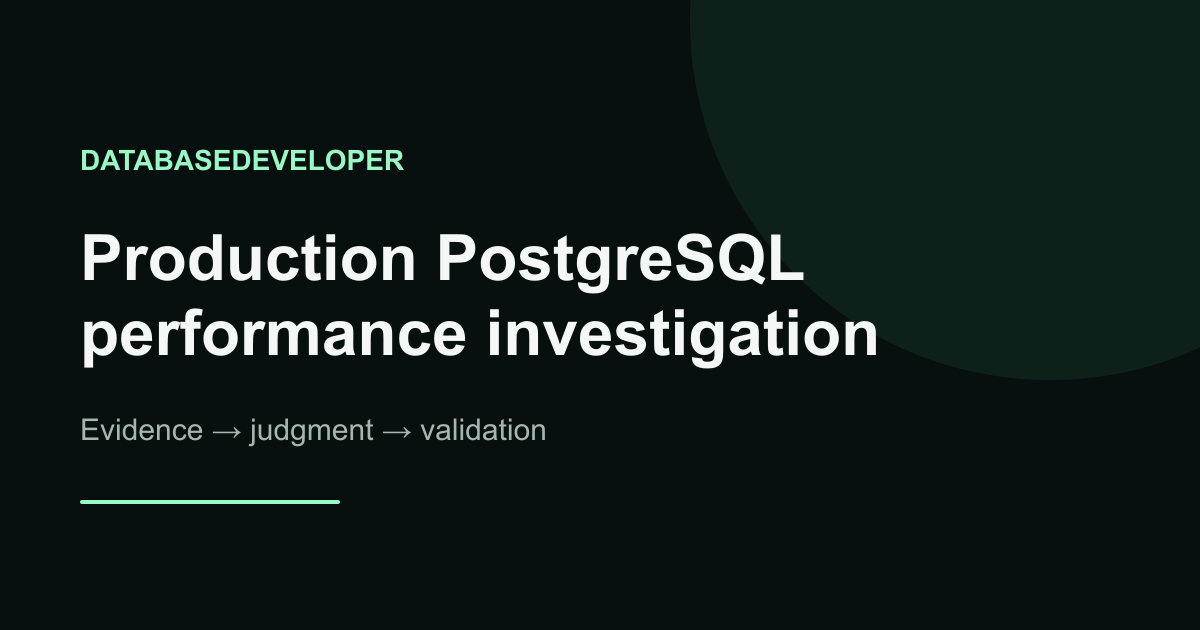
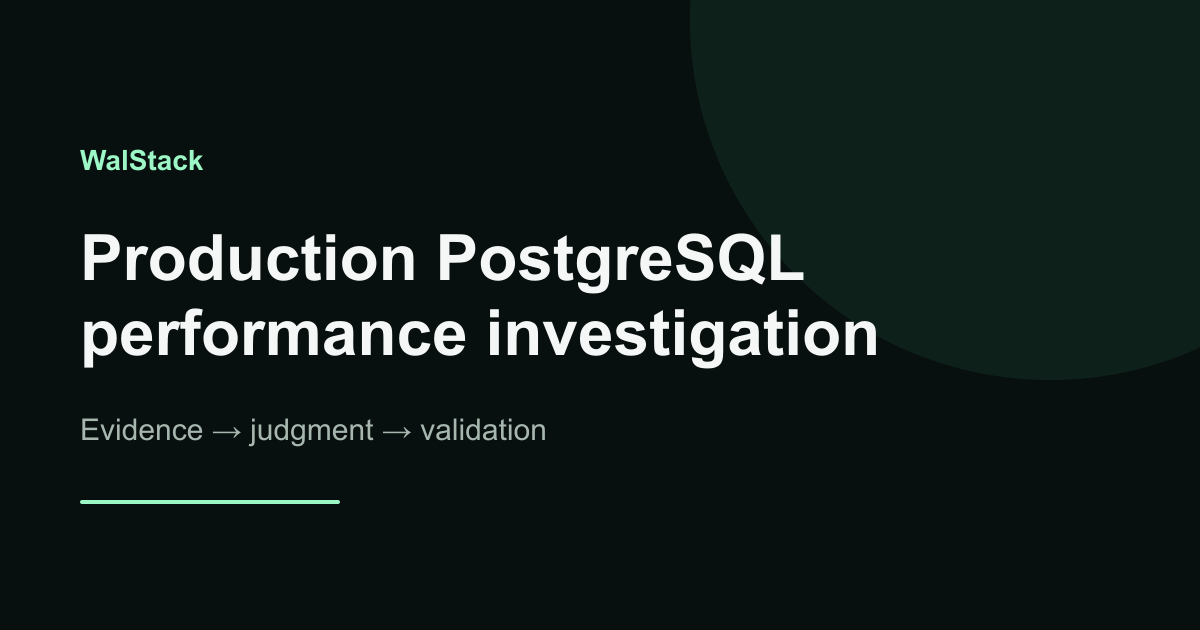
Rebrand consulting site to WalStack

Changed region(s): [[0.0617, 0.2413, 0.3392, 0.2714]]

diff --git a/src/config/site.ts b/src/config/site.ts
@@ -1,10 +1,10 @@
 export const site = {
-  brand: 'DatabaseDeveloper',
-  legalName: 'DatabaseDeveloper',
-  url: 'https://databasedeveloper.dev',
+  brand: 'WalStack',
+  legalName: 'WalStack',
+  url: 'https://walstack.io',
   description:
-    'Evidence-first PostgreSQL performance investigations for SaaS engineering teams, with specialist capability across SQL Server, pgvector, Snowflake and OLAP workloads.',
-  email: 'kiran@databasedeveloper.dev',
+    'WalStack provides evidence-first PostgreSQL performance investigations for SaaS engineering teams, with specialist capability across SQL Server, pgvector, Snowflake and OLAP workloads.',
+  email: 'hello@walstack.io',
   personName: 'Kiran Sabne',
   linkedinUrl: 'https://www.linkedin.com/in/kiransabne/',
   githubUrl: 'https://github.com/kiransabne04',
@@ -13,7 +13,7 @@ export const site = {
   sqlServerBlogUrl: 'https://mssqlserver.dev',
   // GA4 measurement ID (public). Loads only on the production hostnames below, after consent.
   gaId: import.meta.env.PUBLIC_GA_ID || 'G-4YXPCMHXYD',
-  analyticsHosts: ['databasedeveloper.dev', 'www.databasedeveloper.dev'],
+  analyticsHosts: ['walstack.io', 'www.walstack.io'],
   // Public scheduling page (Cal.com, Calendly, Google Calendar booking page…).
   // Empty hides every "book a call" link, so no page points at a dead booking URL.
   bookingUrl: import.meta.env.PUBLIC_BOOKING_URL || 'https://cal.com/kiransabne13/triage-call',

diff --git a/src/pages/rss.xml.ts b/src/pages/rss.xml.ts
@@ -6,7 +6,7 @@ export const GET: APIRoute = () => {
   const feed = rssFeed({
     siteUrl: site.url,
     feedPath: '/rss.xml',
-    title: 'DatabaseDeveloper insights',
+    title: 'WalStack insights',
     link: `${site.url}/insights`,
     description: site.description,
     author: site.personName,

diff --git a/docs/LAUNCH_CHECKLIST.md b/docs/LAUNCH_CHECKLIST.md
@@ -1,6 +1,7 @@
 # Launch checklist
 
-- [x] Use the verified `kiran@databasedeveloper.dev` in `src/config/site.ts`
+- [x] Set `hello@walstack.io` in `src/config/site.ts`
+- [ ] Verify that `hello@walstack.io` receives mail and the existing Formspree endpoint routes to the intended inbox
 - [ ] Send a fresh test inquiry to confirm delivery before launch
 - [ ] Confirm the advertised 3-business-day report turnaround is operationally sustainable
 - [ ] Confirm how many of the first three founding-price places remain and update `src/config/site.ts` when they are filled
@@ -16,8 +17,8 @@
 - [x] 20-minute triage event live at https://cal.com/kiransabne13/triage-call (default in `src/config/site.ts`; `PUBLIC_BOOKING_URL` overrides it)
 - [ ] In GA4, mark `booking_click` as a key event
 - [x] Analytics provider chosen: Google Analytics 4 (free). Loads only after consent via the built-in banner; ad features off; privacy page updated
-- [ ] Create a GA4 property and web data stream for `https://databasedeveloper.dev`; set data retention to 14 months; leave Google signals off
-- [x] GA4 measurement ID `G-4YXPCMHXYD` set in `src/config/site.ts`; it loads only on databasedeveloper.dev and www, after consent (`PUBLIC_GA_ID` overrides it)
+- [ ] Create a GA4 property and web data stream for `https://walstack.io`; set data retention to 14 months; leave Google signals off
+- [ ] Confirm the existing GA4 measurement ID `G-4YXPCMHXYD` is the intended stream for WalStack; `src/config/site.ts` loads it only on walstack.io and www, after consent (`PUBLIC_GA_ID` overrides it)
 - [ ] In GA4, mark `contact_submit`, `contact_draft_open` and `email_click` as key events; `page_not_found` lists broken old URLs after the domain switch
 - [x] Verify `robots.txt` and sitemap generation locally
 - [x] Verify canonical URLs locally
@@ -26,6 +27,7 @@
 - [x] Run `npm run audit:content` against the built archive pages and redirect configuration
 - [x] Retain the old `/rss.xml` feed path
 - [ ] Test all old URLs and redirects on the deployment preview before switching DNS
+- [ ] Configure permanent, path-preserving redirects from the former site hostname to `https://walstack.io` at the hosting or domain layer
 - [ ] Export both Hashnode publications as JSON; migrate and verify the 15 `kiransabne.dev` posts separately before deleting the account
 - [ ] Compare Search Console's indexed URL report with the sitemap inventory for any additional old paths
 - [ ] Add Search Console as a Domain property (DNS TXT record at the registrar), submit `/sitemap-index.xml`, and link it to GA4

diff --git a/docs/MIGRATION_FROM_HASHNODE.md b/docs/MIGRATION_FROM_HASHNODE.md
@@ -1,6 +1,6 @@
 # Hashnode migration inventory
 
-Checked against the live `databasedeveloper.dev` Hashnode publication on 13 October 2026. It listed eight posts. The new site retains seven original paths. Each page uses the original Hashnode text (extracted 14 October 2026, stored in `src/originals/`) with technical errors corrected in place, plus a production-notes section and permanently redirects the short interview pointer to its full article on `kiransabne.dev`.
+Checked against the former Hashnode publication on 13 October 2026, before the WalStack rebrand. It listed eight posts. The new site retains seven original paths. Each page uses the original Hashnode text (extracted 14 October 2026, stored in `src/originals/`) with technical errors corrected in place, plus a production-notes section and permanently redirects the short interview pointer to its full article on `kiransabne.dev`.
 
 The public Hashnode sitemap was checked as well. It contained those eight posts plus `/archive` and `/recommendations`; both listing routes redirect to `/insights`. The old `/rss.xml` feed path is retained with a new feed, and `/sitemap.xml` redirects to the new `/sitemap-index.xml`.
 
@@ -28,4 +28,4 @@ Run `npm run build` and `npm run audit:content` before a preview deploy. The aud
 3. Check that revised pages have self-canonicals, appear in the sitemap, and link to related service or problem pages.
 4. After the switch, monitor 404s, indexing, traffic and backlinks in Search Console. Do not redirect unrelated old URLs to the homepage.
 
-The live `kiransabne.dev` Hashnode publication listed 15 posts on 13 October 2026. Export and migrate that publication separately before deleting a shared Hashnode account; these eight DatabaseDeveloper URLs do not cover it. Hashnode says account deletion removes its content from public view. Its dashboard offers a JSON article export.
+The live `kiransabne.dev` Hashnode publication listed 15 posts on 13 October 2026. Export and migrate that publication separately before deleting a shared Hashnode account; these eight WalStack article paths do not cover it. Hashnode says account deletion removes its content from public view. Its dashboard offers a JSON article export.

diff --git a/docs/CONTENT_SEARCH_PLAN.md b/docs/CONTENT_SEARCH_PLAN.md
@@ -19,7 +19,7 @@ Updated 13 October 2026. This is a search-intent map, not a claim of keyword vol
 - Preserve the seven original article URLs and the permanent redirect for the SQL interview pointer to its full article on `kiransabne.dev`. Each page keeps the original text with errors corrected in place, adds production notes, and keeps its original publication date and a truthful revision date.
 - Give each article one primary question in its title and opening. Explain the decisive evidence, operational trade-off and validation step. Use SQL or code where it helps a reader act; label examples and avoid invented production results.
 - Link informational articles to a relevant problem or service page when a real production investigation could help. The shared article CTA is secondary to the technical answer.
-- Keep the DatabaseDeveloper archive self-contained. The BRIN and semantic-search pointer posts now have complete local guides; the interview pointer redirects to its full article on `kiransabne.dev`, which is not duplicated here. Inventory any separate `kiransabne.dev` publication before deleting a shared Hashnode account.
+- Keep the WalStack archive self-contained. The BRIN and semantic-search pointer posts now have complete local guides; the interview pointer redirects to its full article on `kiransabne.dev`, which is not duplicated here. Inventory any separate `kiransabne.dev` publication before deleting a shared Hashnode account.
 - SQL Server tutorials (syntax, features, how-to) publish on `mssqlserver.dev`; SQL Server production-performance labs and problem guides publish here and link to the tutorials. Never publish the same article on both.
 - Do not claim a target rank or publish search-volume figures without a measured source. Search-result sampling shows intent, not demand size or conversion rate.
 

diff --git a/docs/DISTRIBUTION.md b/docs/DISTRIBUTION.md
@@ -4,7 +4,7 @@ Updated 27 October 2026.
 
 ## Planet PostgreSQL
 
-Feed to register: `https://databasedeveloper.dev/rss/postgresql.xml`. It lists only guides marked `postgresql: true` in `src/data/posts.ts` (PostgreSQL and pgvector); SQL Server, Snowflake and MongoDB posts stay out. Mark every new guide there.
+Feed to register: `https://walstack.io/rss/postgresql.xml`. It lists only guides marked `postgresql: true` in `src/data/posts.ts` (PostgreSQL and pgvector); SQL Server, Snowflake and MongoDB posts stay out. Mark every new guide there.
 
 Steps, from [Adding your blog to Planet PostgreSQL](https://planet.postgresql.org/add.html):
 
@@ -26,7 +26,7 @@ Draft:
 >
 > A reproducible PostgreSQL 18.6 lab comparing io_method settings on cold sequential and bitmap heap scans. worker cut the sequential scan by about a third; io_uring won on the bitmap scan instead, and effective_io_concurrency above 16 changed nothing on that shape. It covers how to see async reads in pg_aios and why laptop numbers understate network storage.
 >
-> https://databasedeveloper.dev/insights/postgresql-18-async-io-io-method
+> https://walstack.io/insights/postgresql-18-async-io-io-method
 > Script and full output: https://github.com/kiransabne04/databasedeveloper.dev/tree/main/labs/pg18-async-io
 >
 > Kiran Sabne

diff --git a/START_HERE.md b/START_HERE.md
@@ -1,6 +1,6 @@
 # Start here
 
-This is the local `databasedeveloper.dev` site. The previous site source is backed up at `/tmp/databasedeveloper-before-final.tar.gz`.
+This is the local `walstack.io` site.
 
 ## 1. Install and run
 
@@ -17,8 +17,8 @@ Open:
 
 `src/config/site.ts`
 
-The working contact address is `kiran@databasedeveloper.dev`.
-Verify it still receives mail before publishing a new deployment.
+The configured contact address is `hello@walstack.io`.
+Verify that it receives mail before publishing a new deployment.
 
 ## 3. Build
 
@@ -28,7 +28,7 @@ npm run build
 
 ## 4. Connect source control
 
-The repository is public at github.com/kiransabne04/databasedeveloper.dev (branch `main`). Agent instructions and business strategy (`AGENTS.md`, `CLAUDE.md`, `docs/business/`) are local-only and gitignored; never commit them. Confirm the remote and branch before pushing.
+The public GitHub repository still uses its original URL; confirm the remote and branch before pushing or changing repository links. Agent instructions and business strategy (`AGENTS.md`, `CLAUDE.md`, `docs/business/`) are local-only and gitignored; never commit them.
 
 ## 5. Vercel
 

diff --git a/README.md b/README.md
@@ -1,6 +1,6 @@
-# databasedeveloper.dev — final starter
+# WalStack — walstack.io
 
-Astro site for the DatabaseDeveloper v3.1 strategy. The site builds locally; review the preview, contact path and old Hashnode URLs before changing the live domain.
+Astro site for WalStack. The site builds locally; review the preview, contact path and old Hashnode URLs before changing the live domain.
 
 ## Positioning
 
@@ -32,7 +32,7 @@ npm run build
 
 ## Before launch
 
-1. Confirm `kiran@databasedeveloper.dev` still receives inquiries.
+1. Confirm `hello@walstack.io` receives inquiries and the form endpoint delivers to the intended inbox.
 2. Optionally set `PUBLIC_CONTACT_ENDPOINT`.
 3. Optionally set analytics env vars.
 4. Deploy to a Vercel Pro preview or another host that permits commercial sites. Vercel Hobby is limited to personal, non-commercial use.
